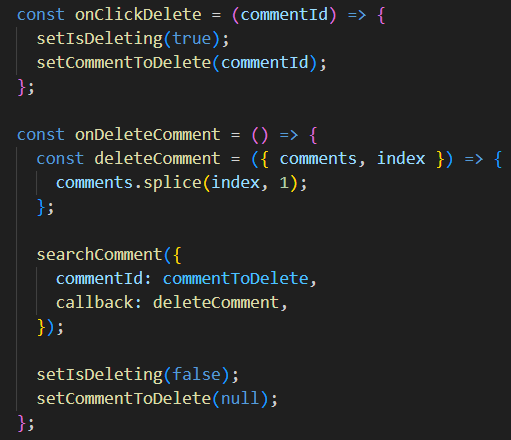
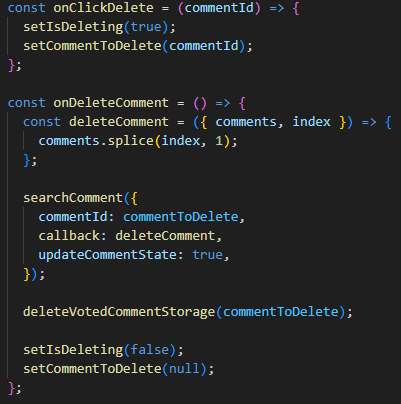
Update

diff --git a/src/context/index.js b/src/context/index.js
@@ -37,7 +37,10 @@ function AppProvider({ children, user }) {
     searchComment({
       commentId: commentToDelete,
       callback: deleteComment,
+      updateCommentState: true,
     });
+
+    deleteVotedCommentStorage(commentToDelete);
 
     setIsDeleting(false);
     setCommentToDelete(null);
@@ -45,6 +48,23 @@ function AppProvider({ children, user }) {
 
   const onCancelDeleteComment = () => {
     setIsDeleting(false);
+  };
+
+  const deleteVotedCommentStorage = (commentId) => {
+    const users = getData("users");
+
+    const currentUserVotedComments = users.find(
+      (user) => user.username === currentUser.username
+    ).votedComments;
+
+    const votedCommentToDelete = currentUserVotedComments.findIndex(
+      (comment) => comment.commentId === commentId
+    );
+
+    if (votedCommentToDelete > -1)
+      currentUserVotedComments.splice(votedCommentToDelete, 1);
+
+    setData("users", users);
   };
 
   const searchAndUpdateComment = ({
@@ -61,7 +81,7 @@ function AppProvider({ children, user }) {
     });
   };
 
-  const searchComment = ({ commentId, callback }) => {
+  const searchComment = ({ commentId, callback, updateCommentState }) => {
     /**
      * A function to search and manipulate a comment or reply
      * and then update the list of comments
@@ -91,14 +111,17 @@ function AppProvider({ children, user }) {
         }
       }
     }
-    updateComments({ comments: commentsCopy });
+    updateComments({ comments: commentsCopy, updateCommentState });
   };
 
-  const updateComments = ({ comments, lastCommentId = null }) => {
-    if (lastCommentId) {
-      setLastCommentId(lastCommentId);
-    }
-    setComments(comments);
+  const updateComments = ({
+    comments,
+    lastCommentId = null,
+    updateCommentState = false,
+  }) => {
+    if (lastCommentId) setLastCommentId(lastCommentId);
+    if (updateCommentState) setComments(comments);
+
     setData("comments", comments);
   };
 

diff --git a/src/components/Comment/index.js b/src/components/Comment/index.js
@@ -12,6 +12,7 @@ class Comment extends Component {
   constructor(props) {
     super(props);
     this.state = {
+      content: this.props.content,
       isReplying: false,
       isEditing: false,
       dateFormat: null,
@@ -61,6 +62,10 @@ class Comment extends Component {
     this.setState({ dateFormat, timerDelayDateFormat });
   };
 
+  editContent = (newContent) => {
+    this.setState({ content: newContent });
+  };
+
   toggleReplyState = () => {
     this.setState({ isReplying: !this.state.isReplying });
   };
@@ -70,7 +75,7 @@ class Comment extends Component {
   };
 
   render() {
-    const { id, user, content, createdAt, score, replyingTo } = this.props;
+    const { id, user, createdAt, score, replyingTo } = this.props;
 
     return (
       <>
@@ -90,9 +95,13 @@ class Comment extends Component {
           <CommentLike id={id} score={score} />
 
           {this.state.isEditing ? (
-            <EditComment content={content} commentToEdit={this.commentToEdit} />
+            <EditComment
+              content={this.state.content}
+              editContent={this.editContent}
+              commentToEdit={this.commentToEdit}
+            />
           ) : (
-            <CommentText replyingTo={replyingTo} content={content} />
+            <CommentText replyingTo={replyingTo} content={this.state.content} />
           )}
         </div>
 

diff --git a/src/components/Comment/CommentLike/index.js b/src/components/Comment/CommentLike/index.js
@@ -10,6 +10,7 @@ class CommentLike extends Component {
     super(props);
     this.state = {
       vote: null,
+      score: this.props.score,
     };
   }
 
@@ -39,7 +40,7 @@ class CommentLike extends Component {
 
   onVoteComment = (vote) => {
     const { searchAndUpdateComment } = this.context;
-    let newScore = this.props.score;
+    let newScore = this.state.score;
 
     if (vote === "upvote") {
       newScore++;
@@ -47,12 +48,14 @@ class CommentLike extends Component {
       newScore--;
     }
 
+    this.setState({ score: newScore });
+
+    // Save in localstorage
     searchAndUpdateComment({
       commentId: this.props.id,
       propertyToUpdate: "score",
       newValue: newScore,
     });
-
     this.saveVotedCommentStorage(vote);
   };
 
@@ -97,7 +100,7 @@ class CommentLike extends Component {
           <PlusIcon />
         </button>
 
-        <span className={styles["comment_likes"]}>{this.props.score}</span>
+        <span className={styles["comment_likes"]}>{this.state.score}</span>
 
         <button
           className={`${styles["comment_like-btn"]} ${

diff --git a/src/components/AddComment/index.js b/src/components/AddComment/index.js
@@ -34,9 +34,14 @@ const AddComment = ({ replyComment = null }) => {
       replies: [],
     };
 
-    const newComments = [...comments, commentToAdd];
+    const newComments = deepCopyList(comments);
+    newComments.push(commentToAdd);
 
-    updateComments({ comments: newComments, lastCommentId: commentToAdd.id });
+    updateComments({
+      comments: newComments,
+      lastCommentId: commentToAdd.id,
+      updateCommentState: true,
+    });
   };
 
   const addReply = (content) => {
@@ -60,7 +65,11 @@ const AddComment = ({ replyComment = null }) => {
       }
     }
 
-    updateComments({ comments: commentsCopy, lastCommentId: replyToAdd.id });
+    updateComments({
+      comments: commentsCopy,
+      lastCommentId: replyToAdd.id,
+      updateCommentState: true,
+    });
     replyComment.hideReplyState();
   };
 

diff --git a/src/components/EditComment/index.js b/src/components/EditComment/index.js
@@ -2,7 +2,7 @@ import { createRef, useContext } from "react";
 import { AppContext } from "context";
 import styles from "./styles.module.css";
 
-const EditComment = ({ content, commentToEdit }) => {
+const EditComment = ({ content, commentToEdit, editContent }) => {
   const { searchAndUpdateComment } = useContext(AppContext);
   const formRef = createRef();
 
@@ -12,6 +12,9 @@ const EditComment = ({ content, commentToEdit }) => {
       const formData = new FormData(formRef.current);
       const newContent = formData.get("new_content");
 
+      editContent(newContent);
+
+      // Save in localstorage
       searchAndUpdateComment({
         commentId: commentToEdit.id,
         propertyToUpdate: "content",

diff --git a/src/utils/deepCopyList.js b/src/utils/deepCopyList.js
@@ -3,16 +3,10 @@ export const deepCopyList = (list) => {
 
   if (Array.isArray(list)) {
     copy = [];
-  } else {
-    copy = {};
   }
 
   for (let key in list) {
     const elem = list[key];
-
-    if (!isNaN(key - "")) {
-      key = key - "";
-    }
 
     if (elem !== null && typeof elem === "object") {
       copy[key] = deepCopyList(elem);
